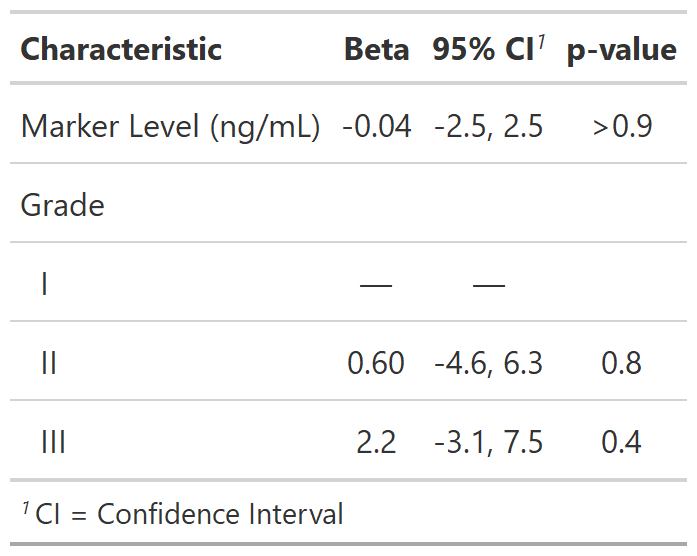
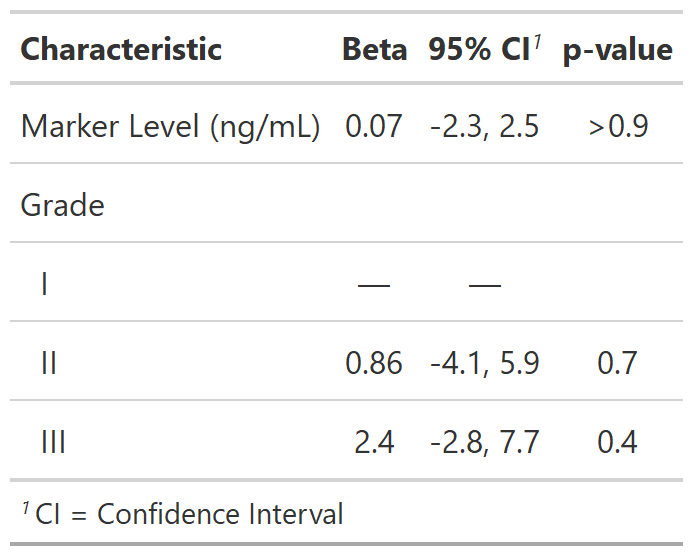
Mice nnet (#666)
* adding methods for mice and nnet multinom models

* Update DESCRIPTION

* Update DESCRIPTION

* doc update

* Update custom_tidiers.Rd

* Update DESCRIPTION

* doc updates

* updates

* Increment version number

diff --git a/NEWS.md b/NEWS.md
@@ -1,5 +1,7 @@
 # gtsummary (development version)
 
+* Multiple imputation models created with {mice}, and multinomial regression models created with {nnet} are now supported in `tbl_regression()` (#645)
+
 * Added warning message to users when they pass a data frame to `tbl_uvregression(data=)` with column names containing spaces or special characters ( #686)
 
 * Updates to `add_global_p.tbl_regression()` allowing for variable names with spaces and special characters (#682)
